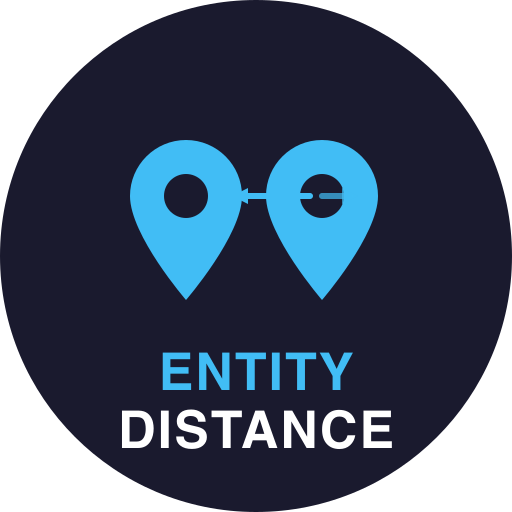
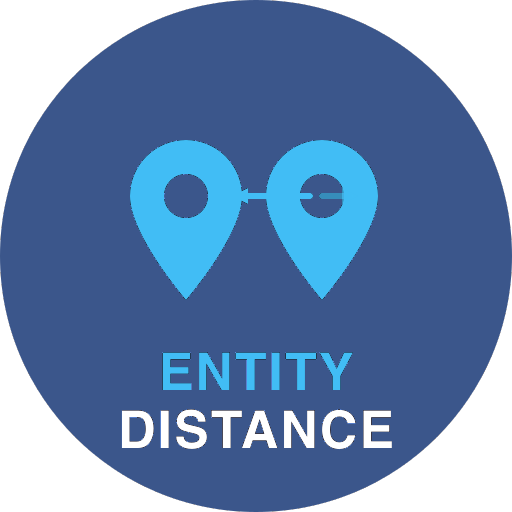
chore: bump to 0.1.0-alpha.4, update CHANGELOG and tests
- Bump version to 0.1.0-alpha.4
- Add test_not_diagnostic for TodayZoneTimeSensor (90 tests total)
- Update CHANGELOG with alpha.4 changes

diff --git a/tests/test_sensor.py b/tests/test_sensor.py
@@ -330,6 +330,12 @@ class TestTodayZoneTimeSensor:
         sensor = _make_zone_sensor(BUCKET_NEAR, self._ps(True, zone))
         assert sensor.native_value == 1.0  # 60 / 60
 
+    def test_not_diagnostic(self):
+        from homeassistant.const import EntityCategory
+
+        sensor = _make_zone_sensor(BUCKET_VERY_NEAR, self._ps(True, {}))
+        assert sensor.entity_category is None or sensor.entity_category != EntityCategory.DIAGNOSTIC
+
 
 # ---------------------------------------------------------------------------
 # UpdateCountSensor tests

diff --git a/CHANGELOG.md b/CHANGELOG.md
@@ -2,6 +2,16 @@
 
 ## [Unreleased]
 
+## [0.1.0-alpha.4] - 2026-05-13
+
+### Added
+- **Icons** — `icons.json` with MDI icons for all sensors, binary sensor (open/closed states), and button
+
+### Changed
+- **Today Zone Time sensors** — removed `DIAGNOSTIC` category; now shown as regular sensors alongside Today Proximity Time
+- **Update Count sensors** — renamed to `Update Count Last 30 min (A/B)` to make the 30-minute window explicit; updated in all 11 language files
+- **Integration icon** — lightened background from dark navy to medium blue-slate (`#405d95`)
+
 ## [0.1.0-alpha.3] - 2026-05-13
 
 ### Added
